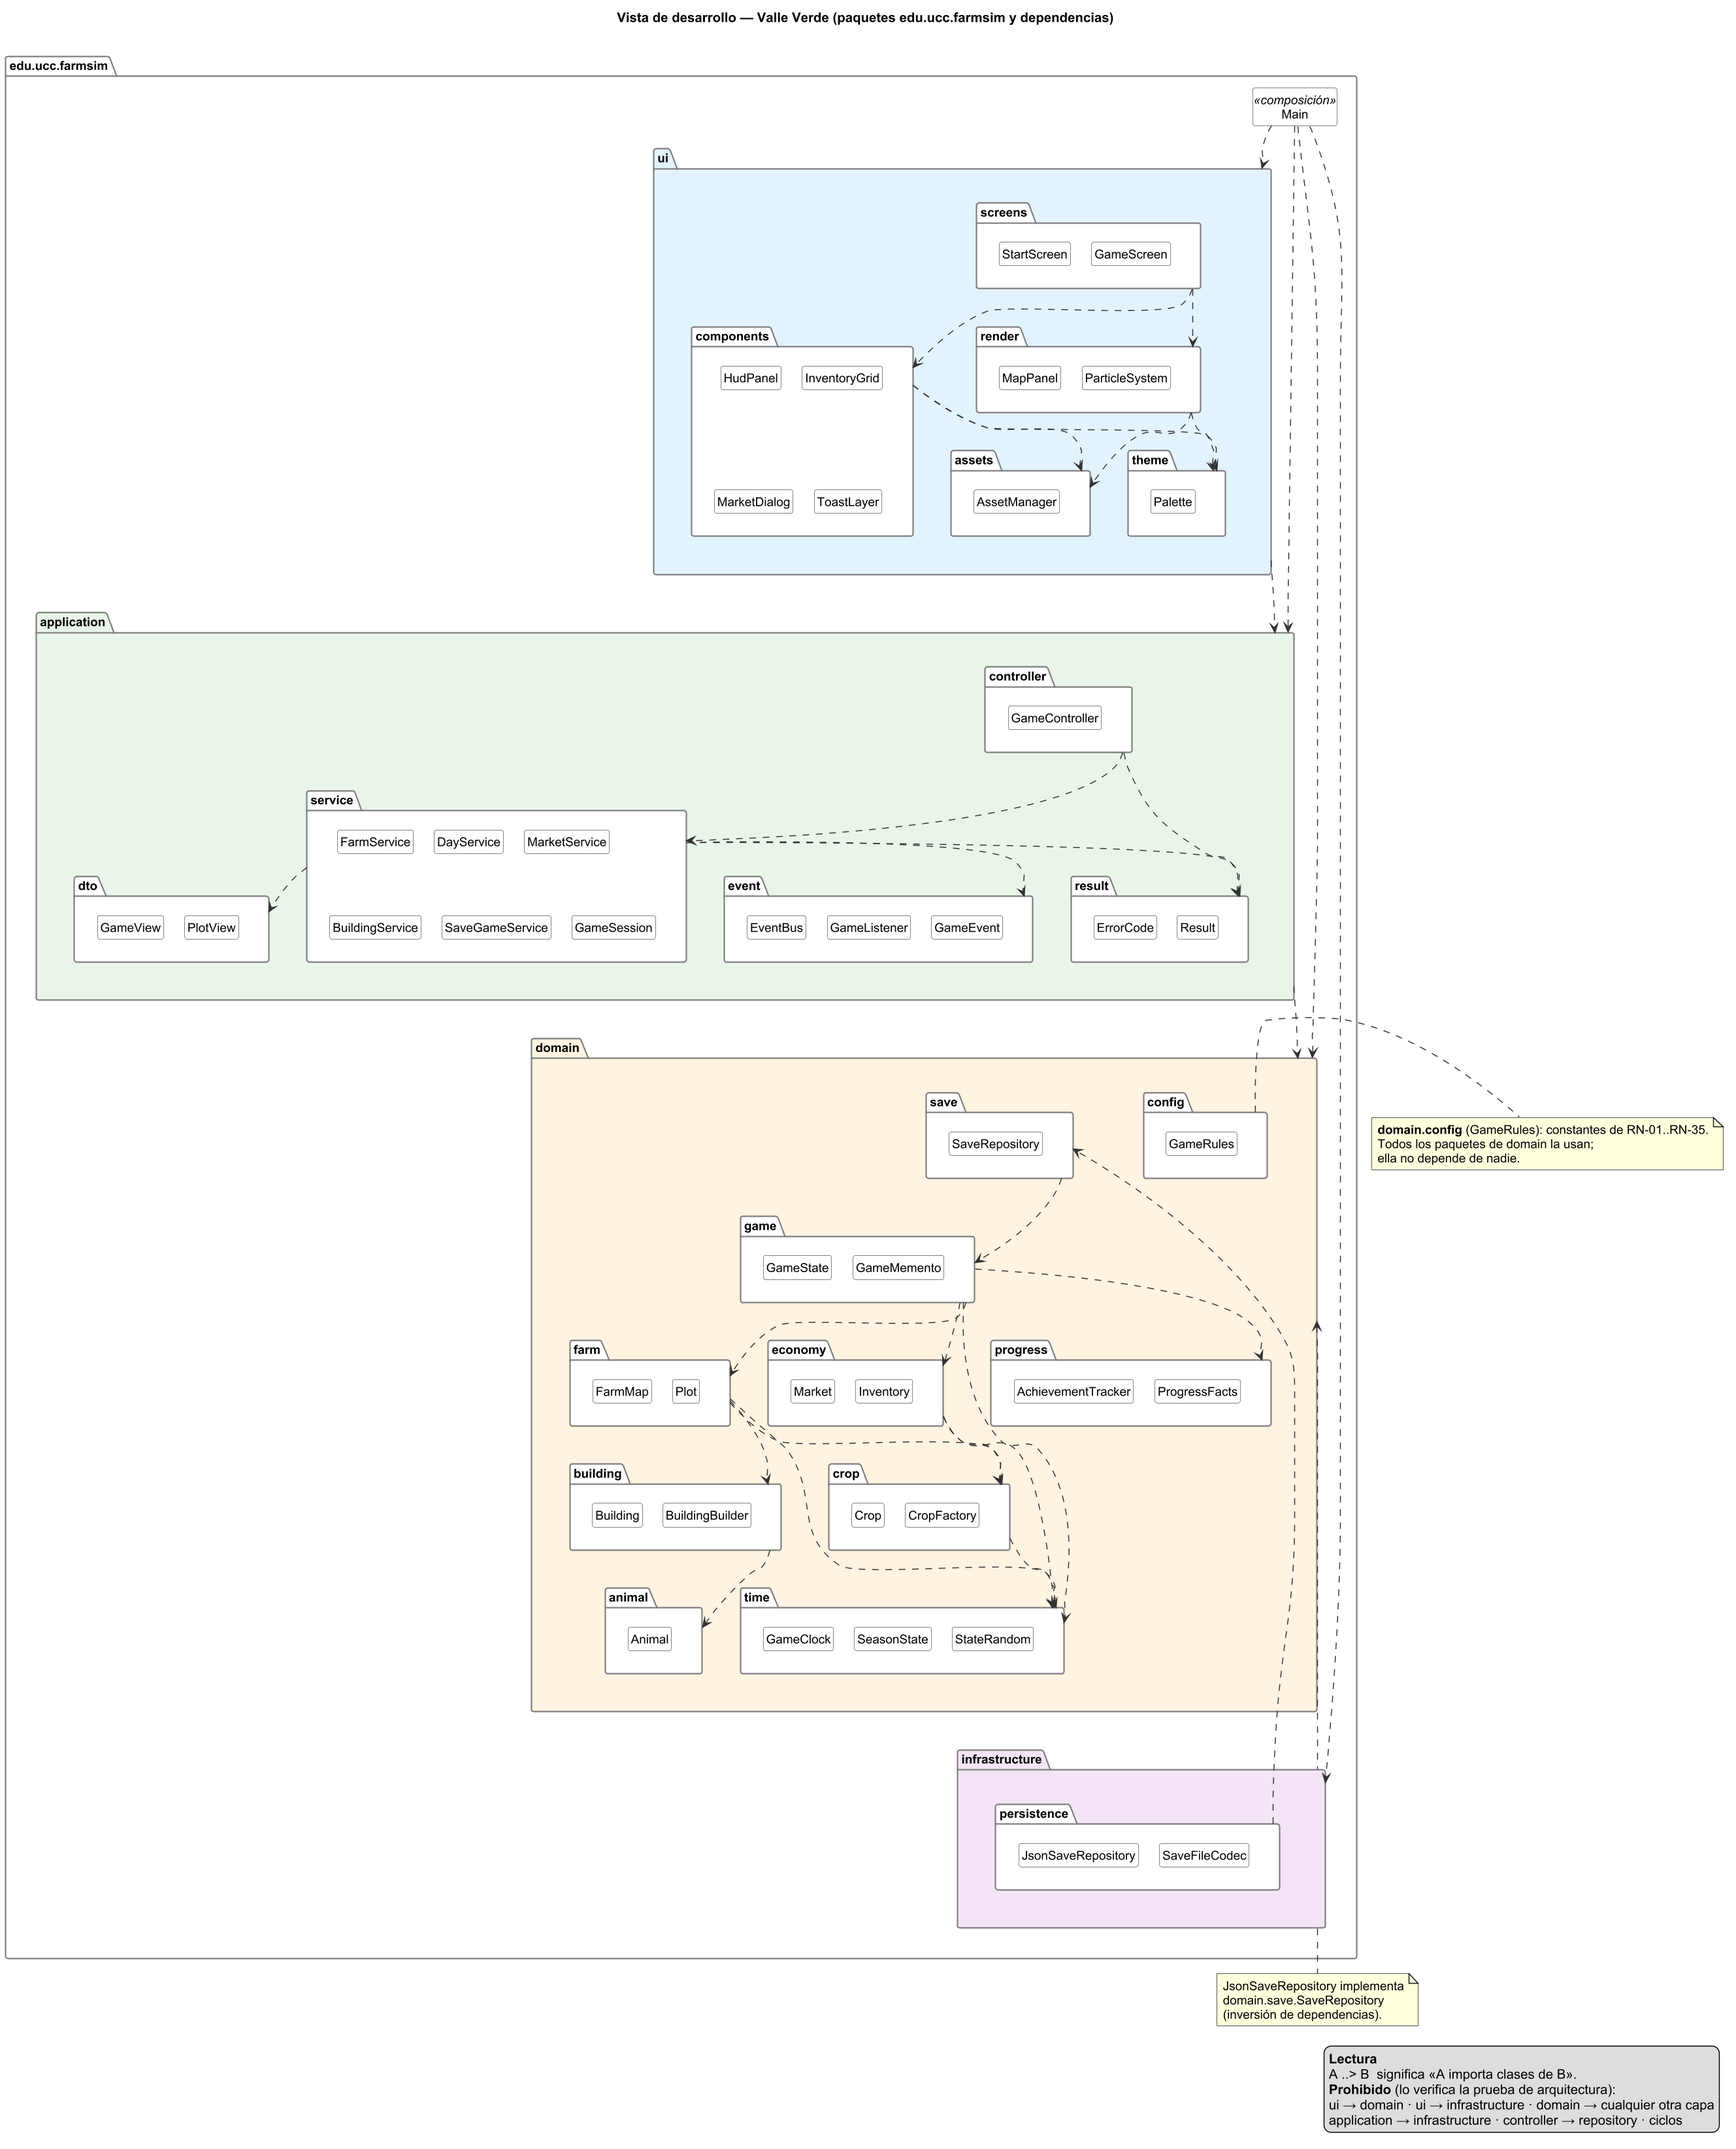
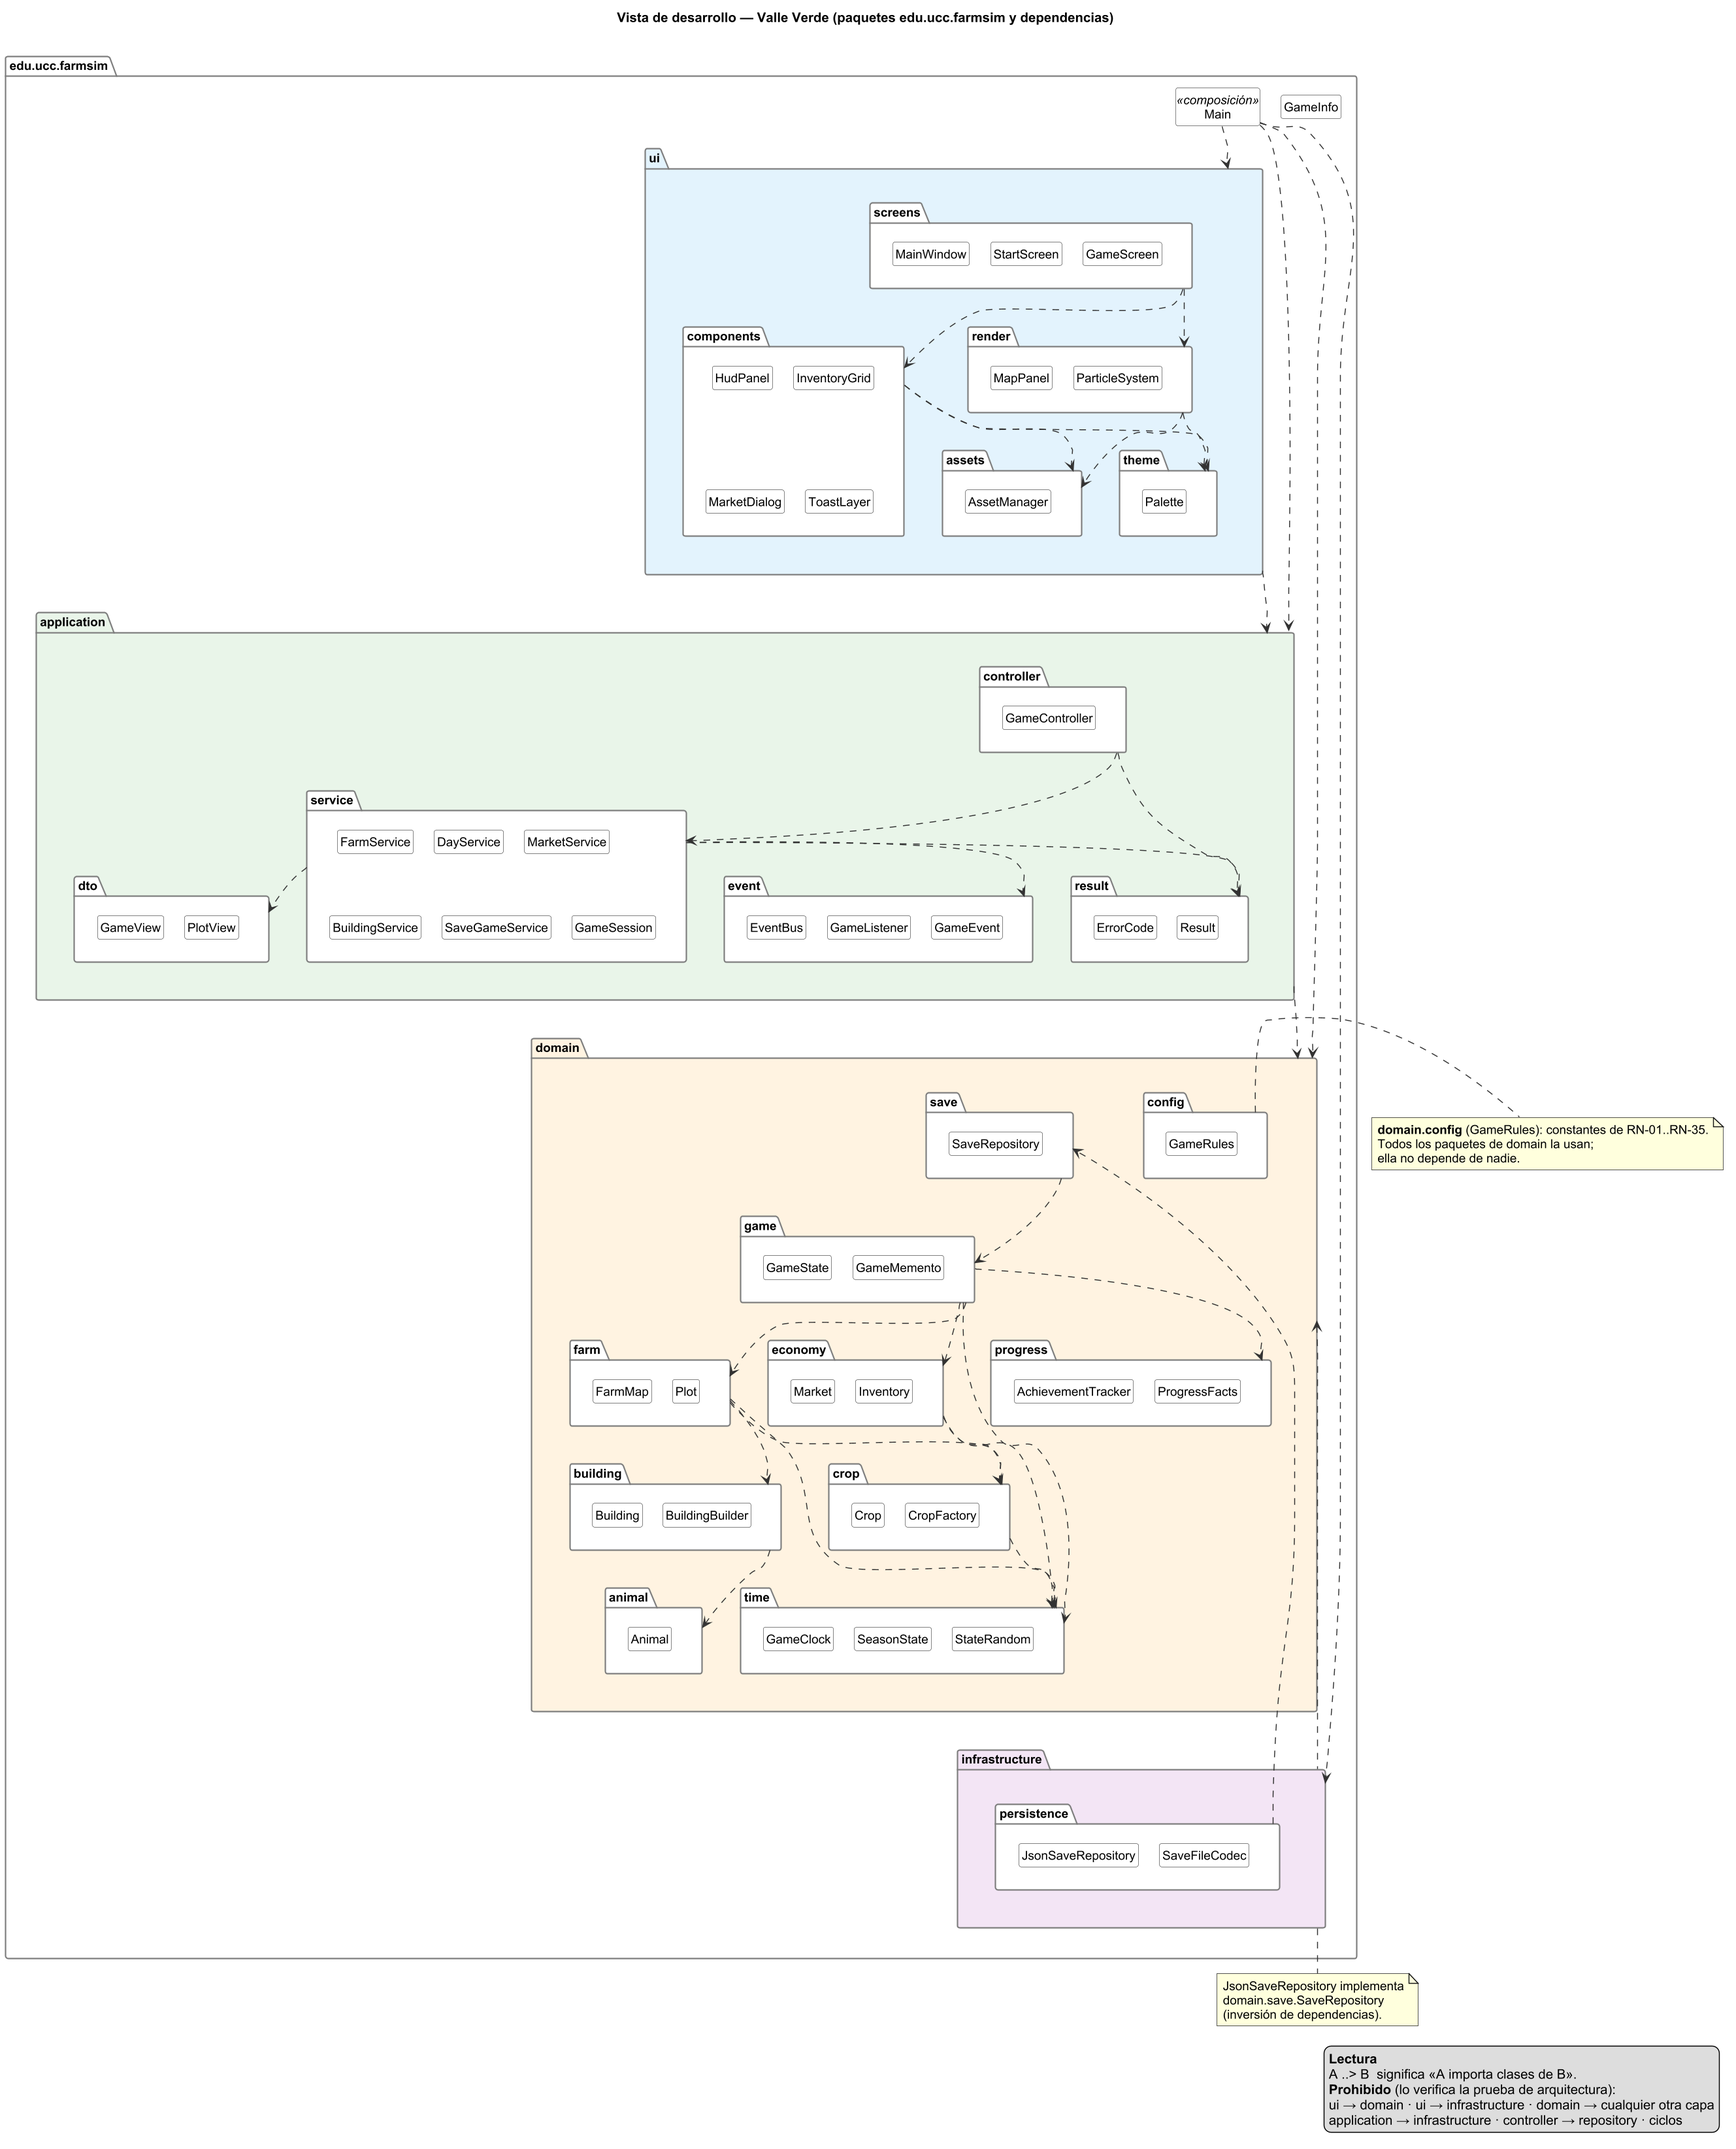
docs(architecture): record phase 5.0 results, add Stories Javadoc rule and sync development view

diff --git a/tools/gen_test_plan.py b/tools/gen_test_plan.py
@@ -57,7 +57,7 @@ Las pruebas se escriben **antes** que el código, historia por historia (DoD 1).
 | Solo pruebas de una historia | `mvn test -Dtest='HU01*'` |
 | Incluir pruebas de rendimiento | `mvn verify -Pperf` |
 | Informe de cobertura | `target/site/jacoco/index.html` |
-| Comprobar diagramas y trazabilidad documental | `python tools/check_diagrams.py` · `python tools/check_hu.py` |
+| Comprobar diagramas, historias y trazabilidad | `python tools/check_diagrams.py` · `python tools/check_hu.py` · `python tools/traceability.py [--upto 5.x]` |
 
 > En este equipo Maven no está en el PATH: se usa `tools/apache-maven-3.9.16/bin/mvn` (o el `mvnw` que se generará en la Fase 5.0).
 
@@ -70,6 +70,7 @@ Las pruebas se escriben **antes** que el código, historia por historia (DoD 1).
 - **Reloj:** toda prueba que lo use llama a `GameClock.resetForTests()` en `@BeforeEach` (DT-09).
 - **Repositorios:** `InMemorySaveRepository` (en pruebas) para aceptación; `@TempDir` para infraestructura.
 - **Fallas inyectadas:** servicios y repositorios de prueba que lanzan excepciones para verificar que el controlador devuelve `ERROR_INTERNO` y que el estado no cambia (RNF-07, HU-10 · CA-4).
+- **Trazabilidad:** cada clase de producción lleva `Stories: HU-xx` en su Javadoc y cada método de prueba el prefijo `HUxx_`; `python tools/traceability.py` (con `--upto 5.x` al cerrar una fase) comprueba que cada historia tenga clases y al menos tantas pruebas como criterios.
 - **Mensajes:** las pruebas comparan el **código** de error y, en pocas pruebas dedicadas, el texto en español de RN-35.
 
 ## 4. Pruebas de aceptación por historia

diff --git a/docs/ARQUITECTURA.md b/docs/ARQUITECTURA.md
@@ -2,7 +2,7 @@
 
 > **Versión 0.1 · 2026-11-22 · Fase 4**
 > Formaliza el diseño propuesto en los diagramas ([`DIAGRAMAS.md`](DIAGRAMAS.md)): capas, árbol de paquetes, decisiones técnicas y plan de implementación por fases con sus historias ([`HISTORIAS_DE_USUARIO.md`](HISTORIAS_DE_USUARIO.md) §7). El plan de pruebas está en [`PLAN_DE_PRUEBAS.md`](PLAN_DE_PRUEBAS.md).
-> **Aún no hay código**: la Fase 5 empieza solo con tu visto bueno.
+> **Estado:** la Fase 5.0 (preparación técnica) está hecha; ver §10. La Fase 5.1 empieza solo con tu visto bueno.
 
 ## 1. Estilo arquitectónico
 
@@ -17,7 +17,7 @@
 
 | Regla | Descripción | Cómo se verifica |
 |---|---|---|
-| **AR-1** | `ui → application → domain` e `infrastructure → domain`; ninguna otra dirección | prueba ArchUnit de capas |
+| **AR-1** | `ui → application → domain` e `infrastructure → domain`; ninguna otra dirección. `Main` es la única clase que puede ver todas las capas (raíz de composición) | prueba ArchUnit de capas |
 | **AR-2** | El dominio no importa `javax.swing`, `java.awt`, `com.google.gson` ni E/S de archivos (`java.io`, `java.nio.file`) | prueba ArchUnit |
 | **AR-3** | La UI no importa `domain` ni `infrastructure`: dibuja con DTO inmutables de `application` | prueba ArchUnit |
 | **AR-4** | `GameController` solo orquesta y devuelve un `Result`; nunca lanza excepciones hacia la UI y nunca llama a un repositorio | prueba ArchUnit + prueba de inyección de fallas |
@@ -25,7 +25,8 @@
 | **AR-6** | La UI se actualiza por eventos (Observer), no consultando en bucle | revisión y prueba de `HudPanel` con eventos simulados |
 | **AR-7** | Toda aleatoriedad recibe un `Random` inyectado | prueba: ningún `new Random()` ni `Math.random()` fuera de `Main` |
 | **AR-8** | Sin números mágicos: las RN viven en `GameRules` y en las tablas de catálogo | revisión en cada historia (DoD 4) |
-| **AR-9** | Cada clase de patrón lleva el Javadoc `Pattern: <nombre> — Role: <rol>` | prueba que revisa las fuentes |
+| **AR-9** | Cada clase de patrón lleva el Javadoc `Pattern: <nombre> — Role: <rol>` | `PatternJavadocTest` con un registro (`src/test/resources/patterns.txt`) que cada fase completa |
+| **AR-10** | Toda clase de producción declara en su Javadoc la línea `Stories: HU-xx, …` (o `Stories: none`) | `tools/traceability.py` (alimenta la matriz de trazabilidad) |
 
 ## 2. Responsabilidades por capa
 
@@ -43,8 +44,9 @@ Paquete raíz `edu.ucc.farmsim`. Las clases entre paréntesis se muestran en los
 ```
 edu.ucc.farmsim
 ├─ Main                                 raíz de composición: crea Random, repositorio, servicios, EventBus y ventana
+├─ GameInfo                             nombre visible y versión del juego (única constante, RNF-12)
 ├─ ui
-│  ├─ screens      StartScreen, GameScreen, ScreenRouter
+│  ├─ screens      MainWindow, StartScreen, GameScreen, ScreenRouter
 │  ├─ components   HudPanel, ToolBar, InventoryGrid, MarketDialog, SlotDialog, AchievementsDialog, ToastLayer
 │  ├─ render       MapPanel, MapRenderer, ParticleSystem, DayNightTint
 │  ├─ assets       AssetManager, VectorFallback
@@ -177,3 +179,18 @@ Como en la secuencia [A1](diagramas/A1_secuencia_vender_cosecha.png):
 | C-03 | Se agregan `GameSession` (DT-10), `StateRandom` (DT-07) y `ProgressFacts` | diagramas 03 y 04 |
 | C-04 | RN-32: el archivo guarda el **estado interno del generador** (`StateRandom`) en lugar de «semilla + número de sorteos» | `REGLAS_DE_NEGOCIO.md` |
 | C-05 | RN-35: nuevo código `ERROR_INTERNO` para excepciones inesperadas (DT-02) | `REGLAS_DE_NEGOCIO.md` |
+
+## 10. Estado de la Fase 5.0 (preparación técnica)
+
+| Entregable | Resultado |
+|---|---|
+| `pom.xml` con las versiones de §5, JaCoCo con **dos barreras** (dominio y aplicación ≥ 70 %), perfil `perf` y *shade* | `mvn clean verify` en verde; la barrera se probó en negativo con una clase sin cubrir y el build falló como debía |
+| Esqueleto: 26 `package-info.java` del árbol de §3, `Main`, `GameInfo`, `MainWindow` | la ventana «Valle Verde» abre en 0,5 s |
+| Pruebas: AR-1 a AR-5 y AR-7 (ArchUnit), AR-9 (registro de patrones), `GameInfoTest`, `MainWindowTest` | 12 pruebas en verde |
+| `mvnw` (Maven Wrapper 3.9.16) | `./mvnw -v` funciona sin instalar Maven |
+| `target/farmsim.jar` ejecutable | bytecode versión 61 (Java 17), `Main-Class` correcto; sin pantalla termina con un mensaje claro (código 1) |
+| `tools/traceability.py` y `docs/TRAZABILIDAD.md` | matriz RF → HU → componente → clases → pruebas; el modo `--upto 5.x` exige historias completas |
+| `README.md` | cómo compilar, ejecutar y probar; estructura; tabla de patrones |
+
+Ajustes surgidos al implementar: (1) `Main` se declara como capa «Composition» en AR-1, porque ArchUnit trata como violación que una clase fuera de las capas acceda a la UI; (2) `GameInfo` y `MainWindow` se agregan al árbol y al diagrama de desarrollo; (3) se añade la regla AR-10 (`Stories:` en el Javadoc).
+

diff --git a/docs/PLAN_DE_PRUEBAS.md b/docs/PLAN_DE_PRUEBAS.md
@@ -24,7 +24,7 @@ Las pruebas se escriben **antes** que el código, historia por historia (DoD 1).
 | Solo pruebas de una historia | `mvn test -Dtest='HU01*'` |
 | Incluir pruebas de rendimiento | `mvn verify -Pperf` |
 | Informe de cobertura | `target/site/jacoco/index.html` |
-| Comprobar diagramas y trazabilidad documental | `python tools/check_diagrams.py` · `python tools/check_hu.py` |
+| Comprobar diagramas, historias y trazabilidad | `python tools/check_diagrams.py` · `python tools/check_hu.py` · `python tools/traceability.py [--upto 5.x]` |
 
 > En este equipo Maven no está en el PATH: se usa `tools/apache-maven-3.9.16/bin/mvn` (o el `mvnw` que se generará en la Fase 5.0).
 
@@ -37,6 +37,7 @@ Las pruebas se escriben **antes** que el código, historia por historia (DoD 1).
 - **Reloj:** toda prueba que lo use llama a `GameClock.resetForTests()` en `@BeforeEach` (DT-09).
 - **Repositorios:** `InMemorySaveRepository` (en pruebas) para aceptación; `@TempDir` para infraestructura.
 - **Fallas inyectadas:** servicios y repositorios de prueba que lanzan excepciones para verificar que el controlador devuelve `ERROR_INTERNO` y que el estado no cambia (RNF-07, HU-10 · CA-4).
+- **Trazabilidad:** cada clase de producción lleva `Stories: HU-xx` en su Javadoc y cada método de prueba el prefijo `HUxx_`; `python tools/traceability.py` (con `--upto 5.x` al cerrar una fase) comprueba que cada historia tenga clases y al menos tantas pruebas como criterios.
 - **Mensajes:** las pruebas comparan el **código** de error y, en pocas pruebas dedicadas, el texto en español de RN-35.
 
 ## 4. Pruebas de aceptación por historia

diff --git a/docs/HISTORIAS_DE_USUARIO.md b/docs/HISTORIAS_DE_USUARIO.md
@@ -28,6 +28,7 @@ Una historia está **terminada** solo si se cumple todo lo siguiente:
 7. Hay una **interfaz funcional mínima** que permite demostrar la historia (botón o panel simple), salvo las historias puramente de dominio, que se demuestran por la capa de aplicación.
 8. Los diagramas y documentos afectados se actualizan **en el mismo commit** si el código cambia el diseño.
 9. Un commit en inglés `feat(area): description (HUxx)` por historia o fase, sin errores de compilación (`mvn clean package` en verde).
+10. Cada clase de producción creada o modificada declara en su Javadoc la línea `Stories: HU-xx, …` y `python tools/traceability.py` termina sin errores (así la matriz de trazabilidad se mantiene al día).
 
 ## 3. Aplicación de INVEST
 
